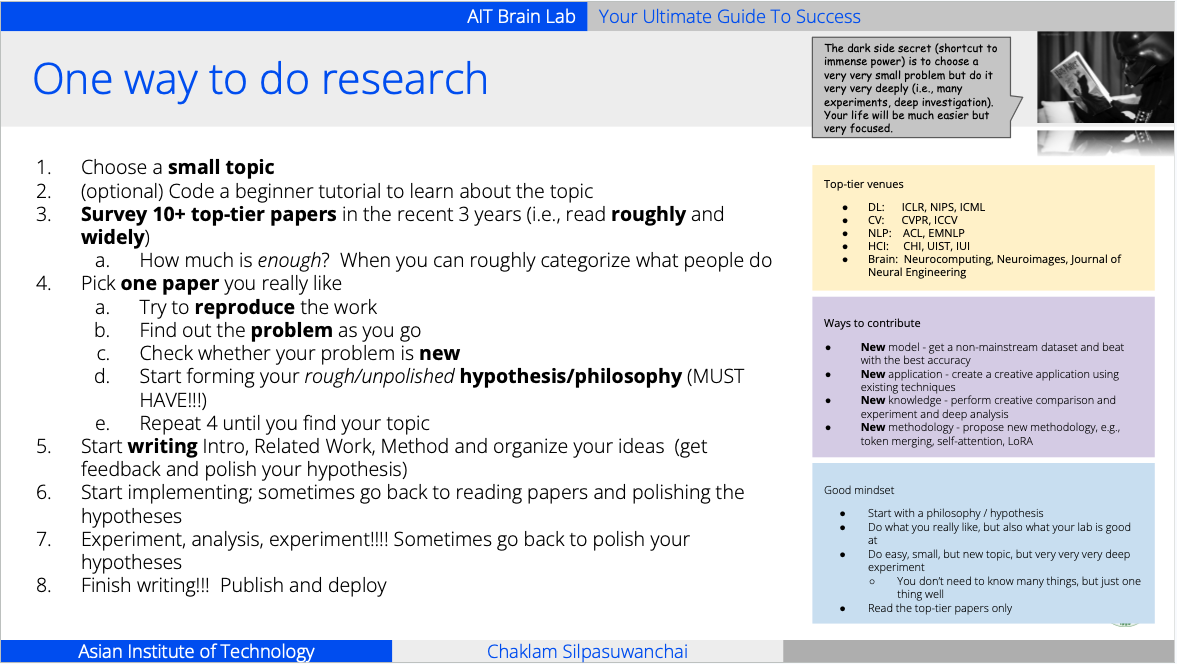
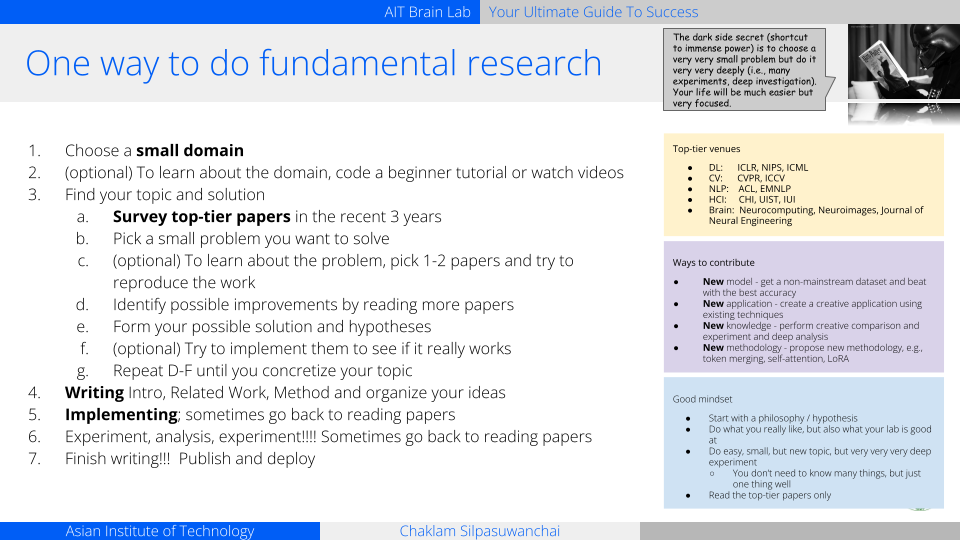
update

diff --git a/themes/chaklam/layouts/_default/researchguide.html b/themes/chaklam/layouts/_default/researchguide.html
@@ -16,7 +16,7 @@
       <p>Here is a very short, concise beginner guide for AIT Master students (applicable to Ph.D. students too).
       </p>
 
-      <h3>0. Graduation criteria</h3>
+      <h3>Graduation criteria</h3>
 
       <p>To graduate from AIT Brain lab, Master students should either (1) develop a <strong>workable, deployed
           product </strong>(justification of 1-year effort) with formal user evaluation, or (2) publish in
@@ -24,17 +24,24 @@
           journals / conferences</strong>.
       </p>
 
-      <h3>0. Meeting protocols</h3>
+      <h3>Meeting protocols</h3>
 
       <p>For Master's, we will have weekly meetings.  For PhD's, it is monthly meeting.  In the meeting, you briefly talk about progress, bottlenecks or obstacles that require attention, and next steps.</p>
 
-      <p>I personally do not prefer scheduling separate meetings as my schedule is very unpredictable and thus could hurt your planning.  Try to talk as much in the regular meetings.</p>
+      <p>I personally do not prefer scheduling separate meetings as my schedule is very unpredictable and thus could hurt your planning.  Try to talk as much in the regular meetings.   But if really needed, check my free slots in chaklam@ait.asia and book accordingly.</p>
 
-      <h3>0. Help</h3>
+      <h3>Advices</h3>
 
-      <p>Research can be very difficult.  You should (1) leverage your lab members to help you as much as possible, (2) try to come to lab and associate with your friends, (3) try to always answer a). what's the problem you want to solve, b). read as much top-tier papers as possible, c). figure out novel solution and also consider is it feasible in your time, d). and carrying out experiments.</p>
+      <p>Research can be very difficult.  Here are my distilled short advices. You should 
+      <ol>
+        <li>leverage your lab members to help you as much as possible</li>
+        <li>try to come to lab and associate with your friends</li>
+        <li>figure out what's the problem you want to solve by reading top-tier papers</li>
+        <li>figure out creative, new solution and also consider the feasibility</li>
+        <li>run a lot of experiments and analyses</li>
+      </ol>
 
-      <span>Useful links:</span>
+      <span>Useful links</span>
       <ul>
         <li><a href="http://www.chaklam.com/node/6">Research Process</a></li>
         <li><a href="http://www.chaklam.com/node/7">How to choose good topic</a></li>
@@ -47,10 +54,10 @@
 
       <p>More advices, if you want to be successful, here is what I think my successful students do, compared to less successful students.</p>
       <ul>
-        <li><strong>Strong passion</strong>:  this is perhaps a very important factor separating the successful and the less ones.  Passion is not only career, money or for fun.  Passion is something you truly believe in.  It's the same level as religion.  If you really love the topic you are doing, the rest of the below factors come.</li>
-        <li><strong>Self-discipline</strong>:  this is perhaps another  important factor.  Self-discipline keeps you focus on tasks on hand and constantly thinking about the solution.</li>
-        <li><strong>Competence</strong>:  they execute the research in a well-planned systematic logical manner.  They are simply smart and methodical.  You can close the gap with these competent people by talking with them, while also working 2x or 3x more than these people and consistently copy how they work and adjust to your own style.  Before you work smart, you need to first work hard.</li>
-        <li><strong>Listen</strong>:  they carefully listen to what the supervisor said, and try to catch the essence.  Less successful usually skip the so-called obvious advices and fail. Of course, your supervisor may not know everything and no one does, but it is your job to learn to communicate effectively your ideas.</li>
+        <li><strong>Strong passion</strong>:  this is perhaps a very important factor separating the successful and the less ones.  Passion is not about career, money or for fun.  Passion is <b>something you truly believe in</b>.  If you really love the topic you are doing, the rest of the below factors come.</li>
+        <li><strong>Self-discipline</strong>:  keeps you focus on tasks on hand and constantly thinking about the solution. No single successful students do not have self-discipline because research is difficult.</li>
+        <li><strong>Competence</strong>:  they execute the research in a well-planned systematic logical manner.  You can close the gap by talking with them, while also working 2x or 3x more than these people. Consistently copy how they work and adjust to your own style.  Before you work smart, you need to first work hard.</li>
+        <li><strong>Listen</strong>:  they carefully listen to what the supervisor said, and try to catch the essence.  <b>Less successful usually skip the so-called obvious advices</b> and fail. Of course, your supervisor may not know everything and no one does, but it is your job to learn to communicate effectively your ideas and listen him/her carefully.</li>
         <li><strong>Positive attitude</strong>:  they seldom blame anyone if they fail.  They keep going, know how to positively self-talk, and embrace and accepts struggles as learning process.  Under huge stress, their positive attitude carry them forward. </li>
       </ul>
 
@@ -108,9 +115,12 @@
 
       <h3>3. Do your research!</h3>
 
-      <p>Doing your research is a daunting task. I have provided a very short snippets of success you may want to try. For students working on products instead, you probably won’t read as many papers but probably read when you meet some technical challenge.</p>
+      <p>Doing your research is a daunting task. I have provided a very short snippets of success you may want to try for both fundamental research and applied research.</p>
 
       <p><img class="img-fluid" alt="how to do research" src="/img/researchway.png" width="750" /></p>
+
+      <p><img class="img-fluid" alt="how to do research" src="/img/applicationway.png" width="750" /></p>
+
 
       <h3>4. Deliverables</h3>
 
@@ -118,9 +128,9 @@
 
       <ol>
         <li>the public GitHub link of your code,</li>
-        <li>deployed demo website link,</li>
         <li>final thesis report</li>
-        <li>final publication (research route)</li>
+        <li>video demo (if you are applied research),</li>
+        <li>final publication (if you are fundamental research)</li>
       </ol>
 
 

diff --git a/themes/chaklam/layouts/_default/projects.html b/themes/chaklam/layouts/_default/projects.html
@@ -60,13 +60,14 @@
       <p>We recommend everyone joining our lab to pursue these continuing projects; we TRY NOT to take any students new
         topics.</p>
 
-      <p style="line-height:1.38; margin-top:16px; margin-bottom:16px"><strong>Theory</strong></p>
+      <p style="line-height:1.38; margin-top:16px; margin-bottom:16px"><strong>Fundamental Research (suitable for Ph.D. students or Master students who want to go Ph.D.)</strong></p>
 
       <ol>
         <li><strong>Knowledge-Based Medical Visual QA</strong>: Just like RAG, we seek to support medical visual QA using some sort of external knowledge systems.</li>
         <li><strong>Multiple-Images Medical Visual QA</strong>:  In the medical scene, especially radiology, it is general that the study is based on multiple images other than a single image. To support that, we need to contribute to model research that support multiple-images medical VQA.</li>
         <li><strong>Stroke and Medical Imaging</strong>: contributes to the early detection of arterial blockage in CT scan images for stroke patients.  Images are provided by Siriraj Hospitals.</li>
         <li><strong>EEG and Mental Health</strong>:  involves measuring stress, mind wandering and mindfulness using EEG, as well as creating interventions such as developing EEG-Based closed-loop neurofeedback applications for attention monitoring and training for young adults</strong></li>
+        <li><strong>Glucose monitoring</strong>:contributes to the use of Raman spectroscopy and the development of Raman portables to monitor blood glucose in real-time.</li>
         <li><strong>Summarization</strong>: summarization is our lab's favorite NLP case study due to its complexity and
           unique challenges. We learned NLP through the lens of summarization by applying different techniques and
           investigates their effectiveness such as:</li>
@@ -82,10 +83,9 @@
         </ul>
       </ol>
 
-      <p><strong>Application</strong></p>
+      <p><strong>Applied Research (suitable for most Master students and interns)</strong></p>
 
       <ol>
-        <li><strong>Glucose monitoring</strong>:contributes to the use of Raman spectroscopy and the development of Raman portables to monitor blood glucose in real-time.</li>
         <li><strong>BCI speller</strong>:contributes to the development of BCI speller using EEG paradigms such as P300, SSVEP, Hybrid P300-SSVEP and motor imagery for locked-in patients.</li>
         <li><strong>AI Thai Government Report</strong>: Thai people often spent hours creating Thai government reports or letters.  Here contributes to the use of AI to help generate commonly used Thai government report that is written in formal government style language.   Style paraphrasing, grammar checkers, and built-in PDF editor are also embedded.</li>
         <li><strong>Scholarly</strong>: contributes to the development of product we called "Scholarly" which help researchers to write papers using style transfer and generative models. Style paraphrasing, grammar checkers, co-writers are among the key modules.</li>
